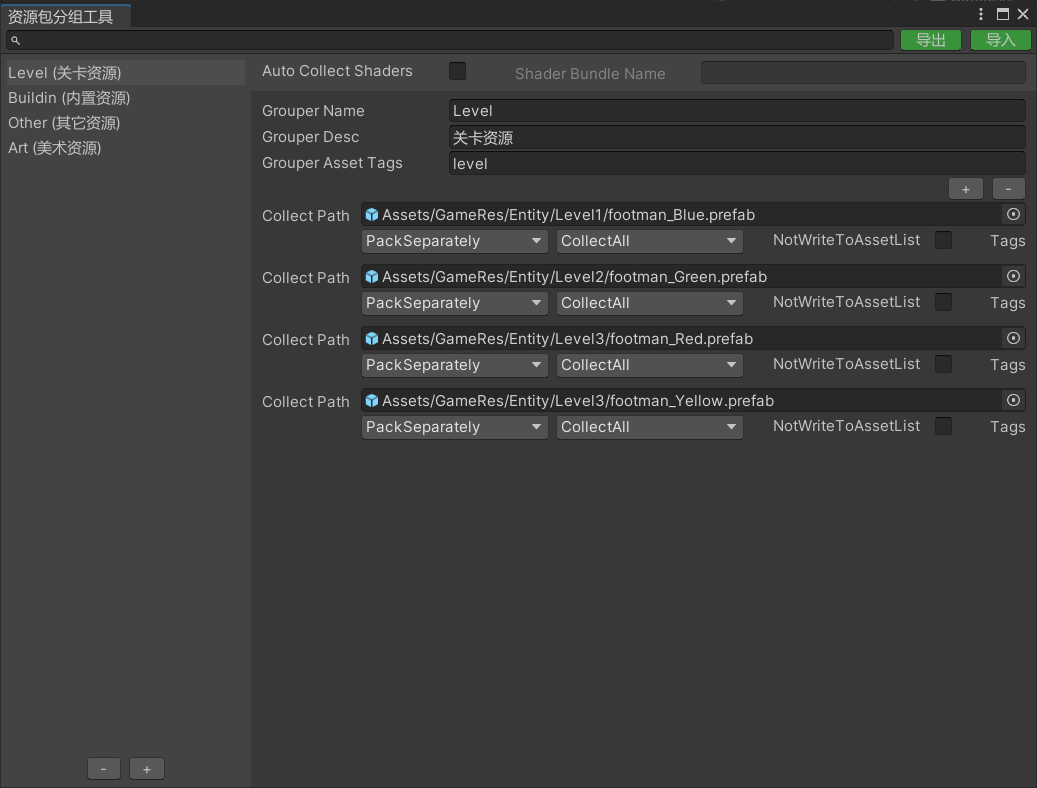
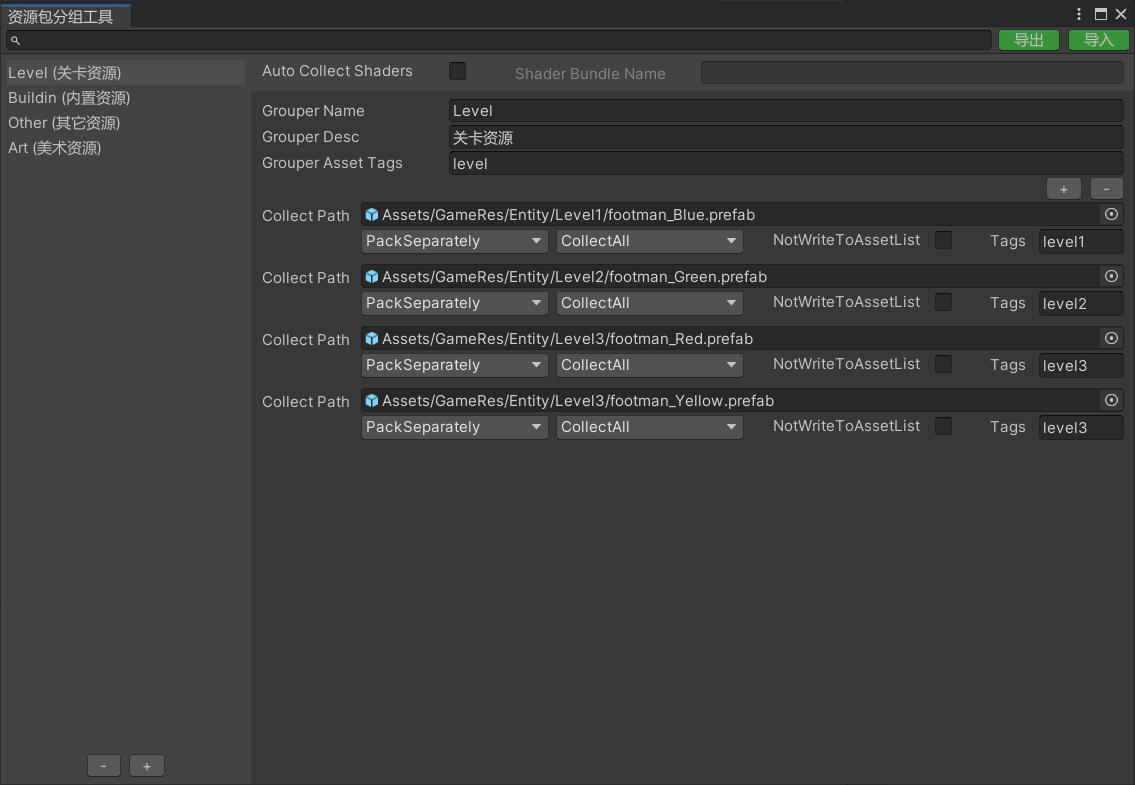
Update document

diff --git a/Docs/AssetGrouper.md b/Docs/AssetGrouper.md
@@ -1,0 +1,93 @@
+# 资源收集
+
+![image](https://github.com/tuyoogame/YooAsset/raw/main/Docs/Image/AssetGrouper-img1.png)
+
+左侧为分组列表，右侧为该分组的配置界面。
+
+导出按钮可以将配置数据导出为XML文件，导入按钮可以导入保存的XML文件。
+
+#### 着色器收集
+
+- Auto Collect Shaders
+
+  自动收集所有依赖的材质球使用的着色器，并将这些着色器打进一个资源包里。
+
+- Shader Bundle Name
+
+  收集的着色器资源包名称。
+
+#### 资源分组
+
+- Grouper Name
+
+  分组名称
+
+- Grouper Desc
+
+  分组备注信息
+
+- Asset Tags
+
+  资源分类标签列表，该分组下收集的资源会全部被打上该标签。
+
+  注意：多个标签用分号隔开，例如 level1;level2;level3
+
+#### 资源搜集器
+
+- **Collect Path**
+
+  收集路径，可以指定文件夹或单个资源文件。
+
+- **PackRule**
+
+  打包规则，规则可以自定义扩展。下面是内置的打包规则：
+
+  - PackSeparately 以文件路径作为资源包名，每个资源文件单独打包。
+  - PackDirectory 以父类文件夹路径作为资源包名，打进一个资源包。
+  - PackCollector 以收集器路径作为资源包名，打进一个资源包。
+  - PackGrouper 以分组名称作为资源包名，打进一个资源包。
+  - PackRawFile 目录下的资源文件会被处理为原生资源包。
+
+````c#
+//自定义扩展范例
+public class PackDirectory : IPackRule
+{
+    string IPackRule.GetBundleName(PackRuleData data)
+    {
+        return Path.GetDirectoryName(data.AssetPath); //"Assets/Config/test.txt" --> "Assets/Config"
+    }
+}
+````
+
+- **FilterRule**
+
+  过滤规则，规则可以自定义扩展。下面是内置的过滤规则：
+
+  - CollectAll 收集目录下的所有资源文件
+
+  - CollectScene 只收集目录下的场景文件
+
+  - CollectPrefab 只收集目录下的预制体文件
+
+  - CollectSprite 只收集目录下的精灵类型的文件
+
+````c#
+//自定义扩展范例
+public class CollectScene : IFilterRule
+{
+    public bool IsCollectAsset(FilterRuleData data)
+    {
+        return Path.GetExtension(data.AssetPath) == ".unity";
+    }
+}
+````
+
+- **NotWriteToAssetList**
+
+  资源对象不写入资源列表
+
+- **AssetTags**
+
+  资源分类标签列表，该收集器下收集的资源会全部被打上该标签。
+
+

diff --git a/Docs/AssetBuilder.md b/Docs/AssetBuilder.md
@@ -1,6 +1,6 @@
 # 资源构建
 
-![image](https://github.com/tuyoogame/YooAsset/raw/main/Docs/Image/AssetBuilder-img1.jpg)
+![image](https://github.com/tuyoogame/YooAsset/raw/main/Docs/Image/AssetBuilder-img1.png)
 
 ### 界面介绍
 
@@ -19,10 +19,6 @@
 - **Encryption Services**
 
   加密服务类列表。
-
-- **Redundancy Services**
-
-  冗余服务类列表。
 
 - **Append Extension**
 
@@ -110,7 +106,6 @@ private static void BuildInternal(BuildTarget buildTarget)
     buildParameters.CompressOption = ECompressOption.LZ4;
     buildParameters.AppendFileExtension = false;
     buildParameters.EncryptionServices = new GameEncryption();
-    buildParameters.RedundancyServices = null;
     buildParameters.IsForceRebuild = true;
     buildParameters.BuildinTags = "buildin";
 

diff --git a/Docs/AssetReporter.md b/Docs/AssetReporter.md
@@ -2,11 +2,11 @@
 
 报告工具，可以查看概览信息（Summary），资源对象列表信息（AssetView），资源包列表信息（BundleView）。
 
-注意：该工具仅支持Unity2019+
+**注意**：该工具仅支持Unity2019+
 
 ### 概览视图
 
-![image](https://github.com/tuyoogame/YooAsset/raw/main/Docs/Image/AssetReporter-img1.jpg)
+![image](https://github.com/tuyoogame/YooAsset/raw/main/Docs/Image/AssetReporter-img1.png)
 
 ### 资源对象列表视图
 

diff --git a/Docs/AssetDeploy.md b/Docs/AssetDeploy.md
@@ -4,11 +4,23 @@
 
 如果是本地测试，可以在本地创建一个WEB服务器，然后将补丁包拷贝到WEB服务器下。
 
+**按照补丁版本目录部署**
+
 ````
 CDN
 └─android
-    ├─100 补丁包文件夹
-    ├─101 补丁包文件夹
-    └─102 补丁包文件夹
+    ├─100
+    ├─101
+    └─102
+````
+
+**按照游戏版本目录部署**
+
+````
+CDN
+└─android
+    ├─v1.0
+    ├─v1.1
+    └─v2.0
 ````
 

diff --git a/Docs/AssetDebugger.md b/Docs/AssetDebugger.md
@@ -4,7 +4,7 @@
 
 未来计划支持在编辑器下通过远程调试真机信息。
 
-注意：该工具仅支持Unity2019+
+**注意**：该工具仅支持Unity2019+
 
 ### 资源对象列表视图
 
